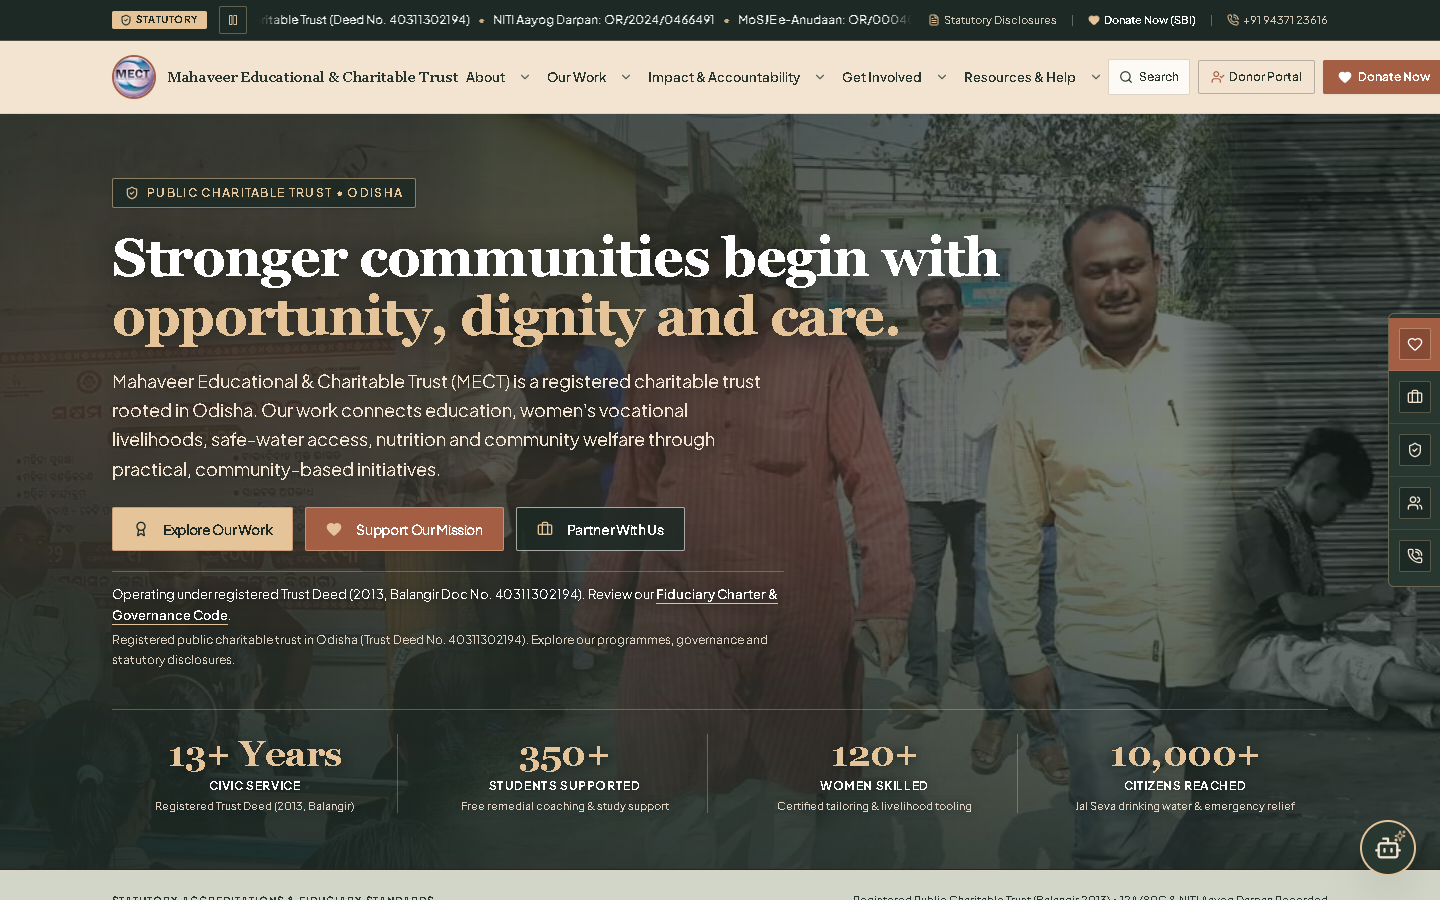
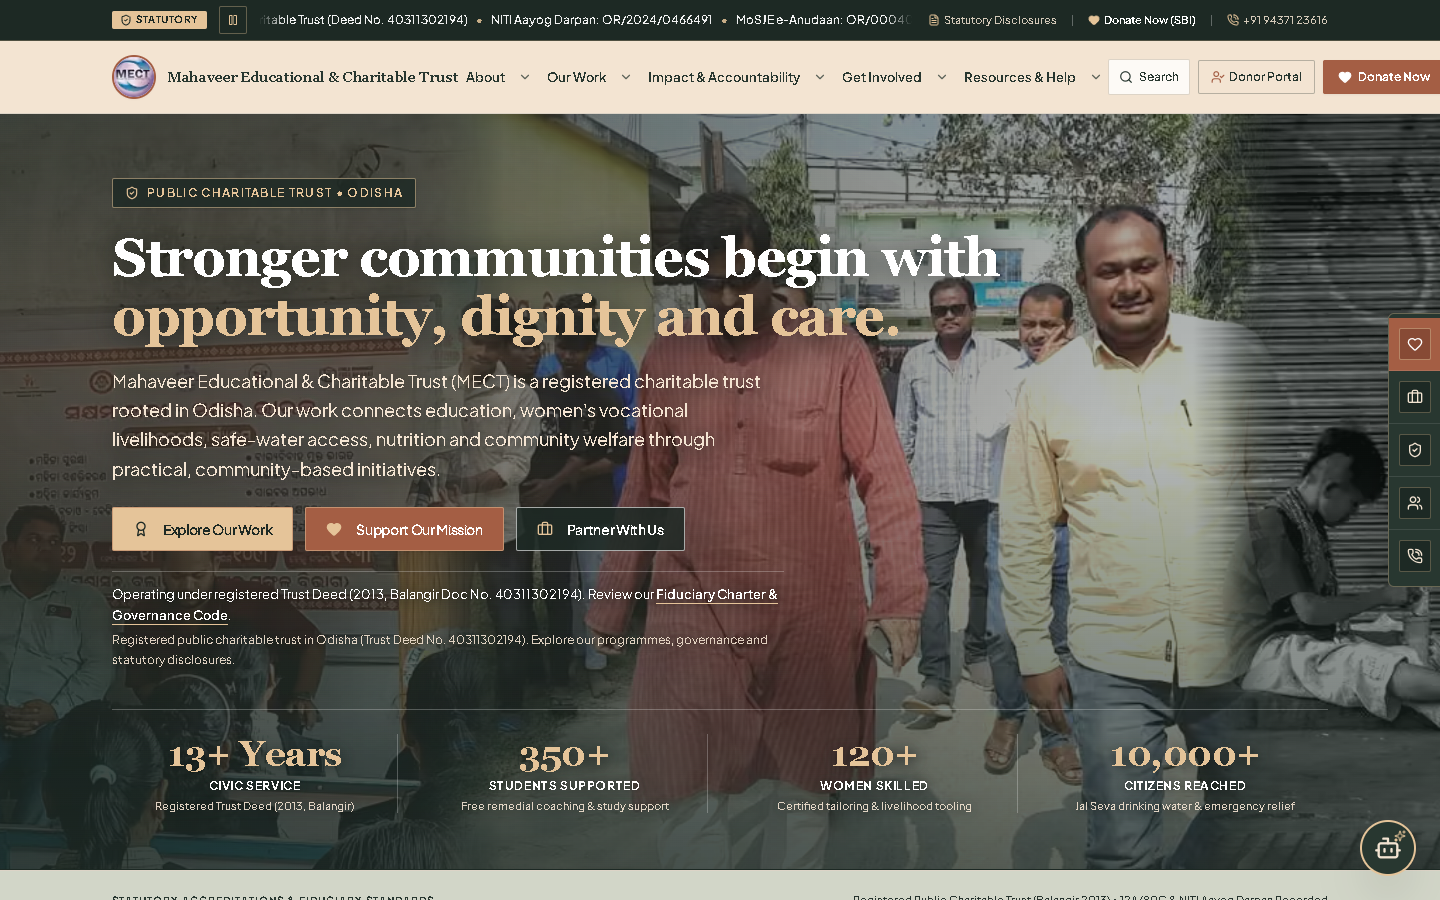
polish(hero): widen mobile marquee panels and lighten scrim for unzoomed clarity [M-M2]

diff --git a/src/app/page.tsx b/src/app/page.tsx
@@ -232,7 +232,7 @@ export default function HomePage() {
       {/* =========================================================================
           SECTION 1 — CINEMATIC FULL-WIDTH PHOTOGRAPHIC HERO
           ========================================================================= */}
-      <section className="relative overflow-hidden bg-forest-deep text-white py-10 sm:py-12 md:pt-14 md:pb-14 lg:pt-16 lg:pb-14 border-b border-forest-deep">
+      <section className="relative overflow-hidden bg-forest-deep text-white py-7 sm:py-10 md:pt-14 md:pb-14 lg:pt-16 lg:pb-14 border-b border-forest-deep">
         {/* Hero Background Canvas (All Viewports) & Foreground Typography Area */}
         <div className="static overflow-hidden">
           {/* Layer 0: Full-Bleed Left-to-Right Marquee Behind Hero Copy */}
@@ -244,9 +244,9 @@ export default function HomePage() {
             className="block absolute inset-0 z-10 pointer-events-none"
             style={{
               background: [
-                "radial-gradient(ellipse at 16% 34%, rgba(164, 94, 68, 0.22) 0%, transparent 58%)",
-                "linear-gradient(180deg, rgba(29, 41, 36, 0.56) 0%, rgba(29, 41, 36, 0.44) 45%, rgba(29, 41, 36, 0.80) 100%)",
-                "linear-gradient(90deg, rgba(29, 41, 36, 0.78) 0%, rgba(29, 41, 36, 0.58) 48%, rgba(29, 41, 36, 0.26) 80%, rgba(29, 41, 36, 0.20) 100%)",
+                "radial-gradient(ellipse at 16% 34%, rgba(164, 94, 68, 0.16) 0%, transparent 56%)",
+                "linear-gradient(180deg, rgba(29, 41, 36, 0.30) 0%, rgba(29, 41, 36, 0.18) 42%, rgba(29, 41, 36, 0.68) 100%)",
+                "linear-gradient(90deg, rgba(29, 41, 36, 0.68) 0%, rgba(29, 41, 36, 0.46) 45%, rgba(29, 41, 36, 0.18) 76%, rgba(29, 41, 36, 0.14) 100%)",
               ].join(", "),
             }}
           />

diff --git a/src/components/sections/HeroBackgroundMarquee.tsx b/src/components/sections/HeroBackgroundMarquee.tsx
@@ -78,7 +78,7 @@ function DesktopSequence({ isClone = false }: { isClone?: boolean }) {
         <div
           key={`${isClone ? "clone" : "main"}-${slide.id}`}
           data-slide-index={idx}
-          className={`hero-bg-panel hero-bg-panel-feather relative h-full w-[100vw] sm:w-[88vw] md:w-[76vw] lg:w-[68vw] xl:w-[62vw] shrink-0 overflow-hidden ${
+          className={`hero-bg-panel hero-bg-panel-feather relative h-full w-[155vw] sm:w-[110vw] md:w-[76vw] lg:w-[68vw] xl:w-[62vw] shrink-0 overflow-hidden ${
             !isClone && idx > 0 ? "hero-bg-secondary-slide" : ""
           } ${!isClone && idx > 1 ? "hero-bg-extra-slide" : ""}`}
         >
@@ -86,7 +86,7 @@ function DesktopSequence({ isClone = false }: { isClone?: boolean }) {
             src={slide.src}
             alt=""
             fill
-            sizes="(max-width: 639px) 100vw, (max-width: 767px) 88vw, (max-width: 1023px) 76vw, (max-width: 1279px) 68vw, 62vw"
+            sizes="(max-width: 639px) 155vw, (max-width: 767px) 110vw, (max-width: 1023px) 76vw, (max-width: 1279px) 68vw, 62vw"
             loading={idx === 0 || idx === 1 || idx === HERO_BACKGROUND_SLIDES.length - 1 ? "eager" : "lazy"}
             decoding="async"
             priority={!isClone && idx === 0}
